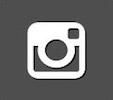
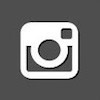
moved social media to landing (sort of)
need to find a place for social media logos when screen width is under
750 (mobile)

also fixed an issue with the nav bar not sticking to the top of the
screen

Changed region(s): [[0.18, 0.21, 0.48, 0.81], [0.54, 0.21, 0.81, 0.81], [0.57, 0.27, 0.63, 0.39]]

diff --git a/index.html b/index.html
@@ -69,6 +69,12 @@
     				<form action="https://docs.google.com/forms/d/e/1FAIpQLSfqkYJzYlVIfscUe9CBn5JcGCRgj5dIHgnM-LjnPAWyZXhR4g/viewform?c=0&w=1">
     					<button class="infoButton"><span>Stay updated</span></button>
     				</form>
+    				
+    				<div class="socialMedia">
+						<a class="neverUnderline" href="https://www.facebook.com/Hacklahoma/"><img src="images/facebook_NEW.png" class="socMedLogo" alt="Facebook" /></a><br />
+						<a class="neverUnderline" href="https://twitter.com/hacklahoma"><img src="images/twitter_NEW.png" class="socMedLogo" alt="Twitter" /></a><br />
+						<a class="neverUnderline" href="https://www.instagram.com/hacklahoma/"><img src="images/instagram_NEW.png" class="socMedLogo" alt="Instagram" /></a>
+					</div>
                 </div>
 			</header>
 
@@ -147,27 +153,47 @@
 						</div>
 						<div id="faqItem">
 							<h2>But what if I'm not a student?</h2>
-							<h3 style="font-size: 1.1em">You are more than welcome to participate as a volunteer or mentor! If you are interested in this, contact us at <a href="mailto:team@hacklahoma.org" class="neverUnderline" style="color: #333333">team@hacklahoma.org</a>. We will have a sign up form available soon!</h3>
+							<h3 style="font-size: 1.1em">
+								You are more than welcome to participate as a volunteer or mentor! If you are interested in this, contact us at
+								<a href="mailto:team@hacklahoma.org" class="neverUnderline" style="color: #333333">team@hacklahoma.org</a>.
+								We will have a sign up form available soon!
+							</h3>
 						</div>
 						<div id="faqItem">
 							<h2>Do I have to be a programmer?</h2>
-							<h3 style="font-size: 1.1em">No, you don't need any experience in programming to attend! Regardless of major or experience, we welcome all students who are genuinely interested in learning and technology.</h3>
+							<h3 style="font-size: 1.1em">
+								No, you don't need any experience in programming to attend! Regardless of major or experience, we welcome all
+								students who are genuinely interested in learning and technology.
+							</h3>
 						</div>
 						<div id="faqItem">
 							<h2>Do I need a team in order to participate?</h2>
-							<h3 style="font-size: 1.1em">Nope! You can always go solo if that's your style, otherwise you are allowed to have up to four people at the maximum. We will have team formation sessions in the future, which we'll announce on our social media and email!</h3>
+							<h3 style="font-size: 1.1em">
+								Nope! You can always go solo if that's your style, otherwise you are allowed to have up to four people at the
+								maximum. We will have team formation sessions in the future, which we'll announce on our social media and email!
+							</h3>
 						</div>
 						<div id="faqItem">
 							<h2>Can I start working before Hacklahoma starts?</h2>
-							<h3 style="font-size: 1.1em">No, hackers are not allowed to work on their projects before Hacklahoma's official hacking period. You are, however, allowed to come up with ideas, plan, and prepare!</h3>
+							<h3 style="font-size: 1.1em">
+								No, hackers are not allowed to work on their projects before Hacklahoma's official hacking period. You are, however,
+								allowed to come up with ideas, plan, and prepare!
+							</h3>
 						</div>
 						<div id="faqItem">
 							<h2>What should I bring?</h2>
-							<h3 style="font-size: 1.1em">We recommend bringing laptops, any chargers, cell phones, a pillow, a sleeping bag, toiletries, an extra set of clothes, and a refillable water bottle. You could also bring an extension cord or additional hardware(which will need to be approved) for your hack just in case.</h3>
+							<h3 style="font-size: 1.1em">
+								We recommend bringing laptops, any chargers, cell phones, a pillow, a sleeping bag, toiletries, an extra set of
+								clothes, and a refillable water bottle. You could also bring an extension cord or additional hardware
+								(which will need to be approved) for your hack just in case.
+							</h3>
 						</div>
 						<div id="faqItem">
 							<h2>What should I not bring?</h2>
-							<h3 style="font-size: 1.1em">Any weapons, drugs, alcohol, anything illegal are strictly prohibited. If you're not sure about bringing something, please ask us about it in advance!</h3>
+							<h3 style="font-size: 1.1em">
+								Any weapons, drugs, alcohol, and anything illegal are strictly prohibited. If you're not sure about bringing
+								something, please ask us about it in advance!
+							</h3>
 						</div>
 						<div id="faqItem">
 							<h2>Do I have to pay to attend Hacklahoma?</h2>
@@ -175,15 +201,27 @@
 						</div>
 						<div id="faqItem">
 							<h2>Will you be offering travel reimbursement?</h2>
-							<h3 style="font-size: 1.1em">We plan to! Currently, we are developing a budget for travel reimbursement and will let you know more about it on our social media pages or through email!</h3>
+							<h3 style="font-size: 1.1em">
+								We plan to! Currently, we are developing a budget for travel reimbursement and will let you know more about it on our
+								social media pages or through email!
+							</h3>
 						</div>
 						<div id="faqItem">
 							<h2>Any other rules?</h2>
-							<h3 style="font-size: 1.1em">Be respectful and have fun hacking! Everyone is required to follow the <a href="https://static.mlh.io/docs/mlh-code-of-conduct.pdf" class="neverUnderline" style="color: #333333;">MLH Code of Conduct</a>.</h3>
+							<h3 style="font-size: 1.1em">
+								Be respectful and have fun hacking! Everyone is required to follow the
+								<a href="https://static.mlh.io/docs/mlh-code-of-conduct.pdf" class="neverUnderline" style="color: #333333;">
+									MLH Code of Conduct
+								</a>.
+							</h3>
 						</div>
 						<div id="faqItem">
 							<h2>I didn't find my question...</h2>
-							<h3 style="font-size: 1.1em">Don't worry! You can email us your inquiries at <a href="mailto:team@hacklahoma.org" class="neverUnderline" style="color: #333333">team@hacklahoma.org</a> and we will get back to you as soon as possible.</h3>
+							<h3 style="font-size: 1.1em">
+								Don't worry! You can email us your inquiries at
+								<a href="mailto:team@hacklahoma.org" class="neverUnderline" style="color: #333333">team@hacklahoma.org</a>
+								and we will get back to you as soon as possible.
+							</h3>
 						</div>
 					</div>
 				</section>
@@ -292,11 +330,11 @@
 				<p style="margin-top: 20px">Organized by OU Student Chapter ACM ❤</p>
 				<p style="font-size: 22px;"><a href="mailto:team@hacklahoma.org" class="neverUnderline" style="color: #333333;">team@hacklahoma.org</a></p>
 
-				<div class="socialMedia">
+				<!-- <div class="socialMedia">
 					<a class="neverUnderline" href="https://www.facebook.com/Hacklahoma/"><img src="images/facebook.png" alt="Facebook" /></a>
 					<a class="neverUnderline" href="https://twitter.com/hacklahoma"><img src="images/twitter.png" alt="Twitter" /></a>
 					<a class="neverUnderline" href="https://www.instagram.com/hacklahoma/"><img src="images/instagram.png" alt="Instagram" /></a>
-				</div>
+				</div> -->
 
 				<p style="font-size: 18px;"><a href="https://static.mlh.io/docs/mlh-code-of-conduct.pdf" class="neverUnderline" style="color: #333333;">MLH Code of Conduct</a></p><br />
 			</footer>
@@ -332,6 +370,8 @@
 		<script src="scripts/scripts.js"></script>
 
 		<!-- MLH Trust Badge -->
-		<a id="mlh-trust-badge" class="neverUnderline" href="https://mlh.io/seasons/na-2018/events?utm_source=na-2018&utm_medium=TrustBadge&utm_campaign=na-2018&utm_content=white" target="_blank"><img src="https://s3.amazonaws.com/logged-assets/trust-badge/2018/white.svg" alt="Major League Hacking 2017 Hackathon Season" style="width:100%"></a>
+		<a id="mlh-trust-badge" class="neverUnderline" href="https://mlh.io/seasons/na-2018/events?utm_source=na-2018&utm_medium=TrustBadge&utm_campaign=na-2018&utm_content=white" target="_blank">
+			<img src="https://s3.amazonaws.com/logged-assets/trust-badge/2018/white.svg" alt="Major League Hacking 2017 Hackathon Season" style="width:100%">
+		</a>
 	</body>
 </html>

diff --git a/styles/main.css b/styles/main.css
@@ -129,26 +129,20 @@ p .bold {
     overflow: visible;
 }
 
-/*
-	The header of the main page. Contains the logo, date, location, and the information button.
-*/
 #header {
-	text-align: center;
 	display: table;
 	width: 80%;
-    margin-left: 10%;
-    margin-right: 10%;
 	height: 100vh;
-	overflow: visible;
-    position: relative;
+	text-align: center;
+	margin-left: auto;
+	margin-right: auto;
 }
 
 .header-info {
-    display: table-cell;
-    position: relative;
-    vertical-align: middle;
-    width: 50%;
-    height: auto;
+	display: table-cell;
+	text-align: center;
+	vertical-align: middle;
+	width: 50%;
 }
 
 /*
@@ -202,7 +196,7 @@ p .bold {
 	display: block;
     margin: auto;
     margin-top: 2em;
-    margin-bottom: 1em;
+    margin-bottom: 4em;
     position: relative;
     vertical-align: center;
 }
@@ -496,9 +490,9 @@ p .bold {
 	left: 0;
 	right: 0;
 	width: 100%;
-	height: 15em;
+	height: 8em;
 	position: absolute;
-	bottom: -15em;
+	bottom: -8em;
 	text-align: center;
 	flex-shrink: 0;
 	box-shadow: 0 0 3em #000000;
@@ -514,25 +508,11 @@ p .bold {
 	justify-content: space-between;
 	margin-left: auto;
 	margin-right: auto;
-	width: 21.875em;
-	height: 7.188em;
+	max-width: 20em;
+	width: 20em;
+	height: 6.25em;
 	max-width: 100%;
-}
-
-/*
-	Style for the facebook logo.
-*/
-.facebook {
-	display: block;
-}
-
-/*
-	Style for the twitter logo.
-*/
-.twitter {
-	display: block;
-	margin-left: auto;
-	margin-right: auto;
+	margin-top: -2em;
 }
 
 /*
@@ -631,7 +611,8 @@ p .bold {
 	max-width: 100px;
 	min-width: 60px;
 	position: fixed;
-	right: 20px;
+	/*right: 20px;*/
+	right: 1.5vw;
 	top: 0;
 	width: 10%;
 	z-index: 10000;

diff --git a/styles/mobile.css b/styles/mobile.css
@@ -6,18 +6,34 @@
         max-width: 80vw;
         max-height: 440px;
         margin-top: 0;
+        margin-bottom: -4em;
     }
 
     .header-info {
-        display: inline-table;
+        display: block;
+        width: 100%;
     }
 
     .header-info h1 {
-        font-size: 10vw;
+        font-size: 8vw;
     }
 
     .header-info p {
-        font-size: 5vw;
+        font-size: 4vw;
+    }
+    
+    .socialMedia {
+    	display: inline-table;
+    	position: absolute;
+    	right: 1.5vw;
+    	top: calc(50vh - 150px);
+    	width: 10%;
+    }
+    
+    .socMedLogo {
+    	display: block;
+    	max-width: 100%;
+    	min-width: 75px;
     }
 }
 
@@ -25,6 +41,10 @@
  @media (max-width: 750px) {
      #menu-trigger-label {
          display: block !important;
+     }
+     
+     .logo {
+        margin-bottom: 0;
      }
 
      #navWrapper {
@@ -89,6 +109,10 @@
      }
      
      #mlh-trust-badge {
-     	right: 0 !important;
+     	right: 1vw !important;
      }
- }
+     
+     .socialMedia {
+     	display: none;
+     }
+}

diff --git a/scripts/scripts.js b/scripts/scripts.js
@@ -21,9 +21,15 @@ $(document).ready(function() {
 	var stickyNav = function() {
 		var scrollTop = $(window).scrollTop();
 
-        if (window.innerWidth < mobileMaxWidth) {
-            // do nothing (shh it's fine)
-        } else if(scrollTop > stickyNavTop) {
+		if (window.innerWidth <= mobileMaxWidth) {
+			if(window.innerWidth > 750 && scrollTop > stickyNavTop) {
+				$('#navBar').addClass('fixed');
+			} else if(!(scrollTop > stickyNavTop)) {
+				$('#navBar').removeClass('fixed');
+			} else {
+				// do nothing
+			}
+        } else if (scrollTop > stickyNavTop) {
 			$('#navBar').addClass('fixed');
 		} else {
 			$('#navBar').removeClass('fixed');
